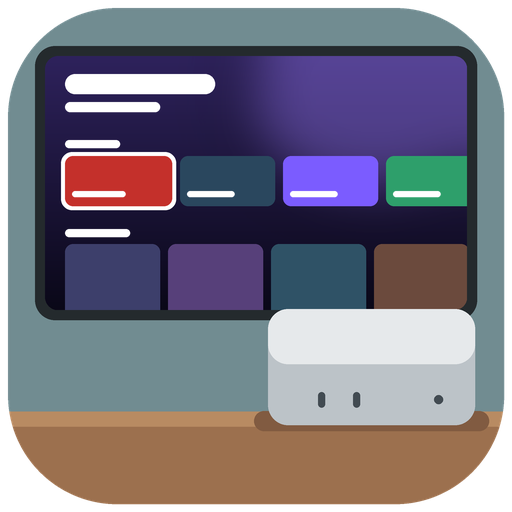
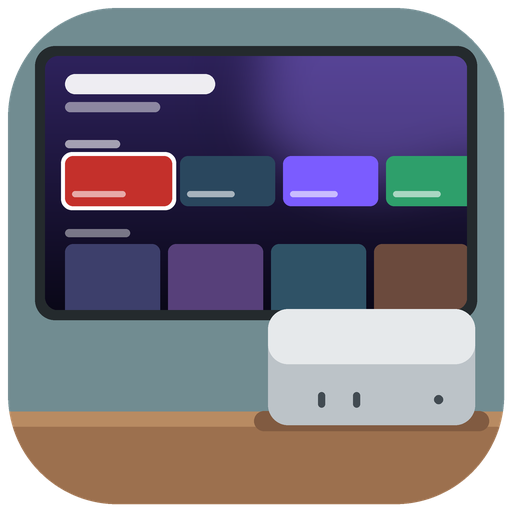
Play tile picture, BIOS folders and buttons, header (#26)
* Cube TV: the Play tile is its picture; header shows a bigger TV with the Cube TV screen

Claude-Session: https://claude.ai/code/session_016YXEbhU7vZ3b9icgYhV2QP

* Header: 16:9 TV, bottom at y 560, with the Cube TV screen

Claude-Session: https://claude.ai/code/session_016YXEbhU7vZ3b9icgYhV2QP

* BIOS folders only for consoles that use BIOS or firmware

Claude-Session: https://claude.ai/code/session_016YXEbhU7vZ3b9icgYhV2QP

* Retro Consoles: Open BIOS Folder and Copy all filenames

Claude-Session: https://claude.ai/code/session_016YXEbhU7vZ3b9icgYhV2QP

* Smoke test: Copy all filenames button

Claude-Session: https://claude.ai/code/session_016YXEbhU7vZ3b9icgYhV2QP

---------

diff --git a/setup/CouchCube/SetupController+Home.swift b/setup/CouchCube/SetupController+Home.swift
@@ -50,9 +50,14 @@ extension SetupController {
         if homeArtworkMenu != frontend || homePlayBackground.layer?.contents == nil {
             homeArtworkMenu = frontend
             let path = appStates.first { $0.id == frontend && $0.installed && !$0.path.isEmpty }?.path
-            let art = TVMenuArtwork.image(for: frontend, appIcon: path.map { NSWorkspace.shared.icon(forFile: $0) })
+            // Cube TV's own picture (TV, Mac mini, the home screen) is the whole tile: no logo, no name, no dimming.
+            let tilePicture = frontend == "cube-tv"
+                ? Bundle.main.resourceURL.flatMap { NSImage(contentsOf: $0.appendingPathComponent("AppIcons/cube-tv-tile.png")) } : nil
+            let art = tilePicture ?? TVMenuArtwork.image(for: frontend, appIcon: path.map { NSWorkspace.shared.icon(forFile: $0) })
             homePlayBackground.layer?.contentsGravity = .resizeAspectFill
             homePlayBackground.layer?.contents = art.cgImage(forProposedRect: nil, context: nil, hints: nil)
+            homePlayTitle.isHidden = tilePicture != nil
+            homePlayShade.isHidden = tilePicture != nil
         }
         homePlaySubtitle.stringValue = frontend == nil ? homeMenuLabel.stringValue : ""
         playAction.setAccessibilityLabel("Cube TV · \(homeMenuLabel.stringValue)")

diff --git a/setup/CouchCube/SetupController.swift b/setup/CouchCube/SetupController.swift
@@ -194,6 +194,9 @@ final class SetupController: NSObject, NSApplicationDelegate, NSWindowDelegate, 
     var homeSessionControllers: [String] = []
     var homeObservedConnections = Set<String>()
     let homePlayBackground = NSView()
+    /// The Play tile's name and dimming layer; Cube TV's picture is the whole tile, so it hides both.
+    var homePlayTitle: NSTextField!
+    var homePlayShade: NSView!
     let launcherSections = NSStackView()
     /// Shown after an app operation fails: macOS's App Management permission is the usual cause.
     let appManagementHint = NSStackView()
@@ -670,6 +673,8 @@ final class SetupController: NSObject, NSApplicationDelegate, NSWindowDelegate, 
         homePlaySubtitle.font = .systemFont(ofSize: 13, weight: .semibold)
         homePlaySubtitle.textColor = NSColor.white.withAlphaComponent(0.85)
         homePlaySubtitle.shadow = playTitle.shadow
+        homePlayTitle = playTitle
+        homePlayShade = shade
         for view in [homePlayBackground, shade, playTitle, homePlaySubtitle, play] {
             view.translatesAutoresizingMaskIntoConstraints = false
             playCard.contentView!.addSubview(view)

diff --git a/setup/CouchCube/SetupController+SmokeTests.swift b/setup/CouchCube/SetupController+SmokeTests.swift
@@ -1358,9 +1358,9 @@ extension SetupController {
                                  biosButtons.first?.identifier?.rawValue == "/BIOS/dc",
                                  "BIOS details must show the destination folder")
                     let copies = biosButtons.filter { $0.action == #selector(self.copyBIOSNames(_:)) }
-                    precondition(copies.map { $0.title } == ["dc_boot.bin", "dc_flash.bin", "Copy"])
+                    precondition(copies.map { $0.title } == ["dc_boot.bin", "dc_flash.bin", "Copy all filenames", "Copy"])
                     precondition(copies.map { $0.identifier!.rawValue } ==
-                                 ["dc_boot.bin", "dc_flash.bin", "Dreamcast BIOS"])
+                                 ["dc_boot.bin", "dc_flash.bin", "dc_boot.bin dc_flash.bin", "Dreamcast BIOS"])
                     precondition(!biosButtons.contains { $0.title.contains("Google") || $0.title == "Copy all" })
                     precondition(biosCopyButtons(self.biosStatusView(BIOSStatus(state: "present",
                         summary: "BIOS found", files: biosPreview.files))).isEmpty)

diff --git a/setup/CouchCube/SetupController+Apps.swift b/setup/CouchCube/SetupController+Apps.swift
@@ -729,7 +729,13 @@ extension SetupController {
             add(separator())
             let open = button("Open ROM Folder", #selector(openBIOSFolder(_:)))
             open.identifier = NSUserInterfaceItemIdentifier(detail.folder)
-            add(row([heading("Games"), NSView(), open]))
+            var openButtons: [NSView] = [open]
+            if let bios = system.bios, bios.state != "not-needed", let root = selected?.root {
+                let openBIOS = button("Open BIOS Folder", #selector(openBIOSFolder(_:)))
+                openBIOS.identifier = NSUserInterfaceItemIdentifier(root + "/BIOS/" + system.id)
+                openButtons.insert(openBIOS, at: 0)
+            }
+            add(row([heading("Games"), NSView()] + openButtons))
             if detail.games.isEmpty {
                 add(text("No games yet. Put this console's games in its ROM folder.", size: 12, secondary: true))
             }

diff --git a/setup/CouchCube/SetupController+Consoles.swift b/setup/CouchCube/SetupController+Consoles.swift
@@ -361,6 +361,11 @@ extension SetupController {
                          help: "Copy filename " + $0)
                 }))
             }
+            if names.count > 1 {
+                // One click for every file name in this folder, separated by spaces, to paste into a search.
+                fileRows.addArrangedSubview(pill("Copy all filenames", symbol: "doc.on.doc.fill", action: #selector(copyBIOSNames(_:)),
+                                                 value: names.joined(separator: " "), help: "Copy all filenames: " + names.joined(separator: " ")))
+            }
             let files = row([text("Files", size: 11, secondary: true), fileRows, NSView()])
             files.distribution = .fill
             files.alignment = .top

diff --git a/scripts/cube-tv-icon.py b/scripts/cube-tv-icon.py
@@ -28,6 +28,34 @@ def gradient(size, top, bottom):
     return image
 
 
+def screen_image(width, height):
+    """The made-up Cube TV home screen, drawn on an 844 x 508 design grid and scaled to width x height."""
+    sw, sh = 844, 508
+    screen = gradient((px(sw), px(sh)), (46, 34, 92), (10, 8, 24))
+
+    def sbox(x, y, w, h):
+        return [px(x), px(y), px(x + w), px(y + h)]
+
+    glow = Image.new("RGBA", screen.size, (0, 0, 0, 0))
+    ImageDraw.Draw(glow).ellipse(sbox(380, -120, 560, 420), fill=(160, 128, 255, 90))
+    screen = Image.alpha_composite(screen.convert("RGBA"), glow.filter(ImageFilter.GaussianBlur(px(60)))).convert("RGB")
+    sd = ImageDraw.Draw(screen, "RGBA")  # "RGBA" mode blends the translucent fills instead of replacing pixels
+    sd.rounded_rectangle(sbox(40, 36, 300, 40), radius=px(20), fill=(255, 255, 255, 235))
+    sd.rounded_rectangle(sbox(40, 92, 190, 20), radius=px(10), fill=(255, 255, 255, 120))
+    sd.rounded_rectangle(sbox(40, 168, 110, 16), radius=px(8), fill=(255, 255, 255, 150))
+    tiles = [("#c4302b", 40, 200, 214, 100, True), ("#2a475e", 270, 200, 190, 100, False),
+             ("#7b5cff", 476, 200, 190, 100, False), ("#2e9f6b", 682, 200, 190, 100, False)]
+    for color, x, y, w, h, focused in tiles:
+        if focused:
+            sd.rounded_rectangle(sbox(x - 8, y - 8, w + 16, h + 16), radius=px(22), fill=(255, 255, 255, 255))
+        sd.rounded_rectangle(sbox(x, y, w, h), radius=px(16), fill=color)
+        sd.rounded_rectangle(sbox(x + 14, y + h - 30, w * 0.5, 12), radius=px(6), fill=(255, 255, 255, 150))
+    sd.rounded_rectangle(sbox(40, 346, 130, 16), radius=px(8), fill=(255, 255, 255, 110))
+    for i, color in enumerate(["#3d3f6b", "#57407a", "#2f5266", "#6b4a3d"]):
+        sd.rounded_rectangle(sbox(40 + i * 206, 376, 190, 160), radius=px(16), fill=color)
+    return screen.resize((width, height), Image.LANCZOS)
+
+
 def draw_icon():
     canvas = Image.new("RGBA", (W, W), (0, 0, 0, 0))
     scene = Image.new("RGBA", (W, W), "#718c91")
@@ -38,32 +66,7 @@ def draw_icon():
     # TV: dark bezel, screen with the Cube TV home screen.
     d.rounded_rectangle(box(70, 92, 884, 548), radius=px(40), fill="#242a2d")
     sx, sy, sw, sh = 90, 112, 844, 508
-    screen = gradient((px(sw), px(sh)), (46, 34, 92), (10, 8, 24)).convert("RGBA")
-    sd = ImageDraw.Draw(screen)
-
-    def sbox(x, y, w, h):
-        return [px(x), px(y), px(x + w), px(y + h)]
-
-    # Hero: a glow, a big title and a smaller line.
-    glow = Image.new("RGBA", screen.size, (0, 0, 0, 0))
-    ImageDraw.Draw(glow).ellipse(sbox(380, -120, 560, 420), fill=(160, 128, 255, 90))
-    screen = Image.alpha_composite(screen, glow.filter(ImageFilter.GaussianBlur(px(60))))
-    sd = ImageDraw.Draw(screen)
-    sd.rounded_rectangle(sbox(40, 36, 300, 40), radius=px(20), fill=(255, 255, 255, 235))
-    sd.rounded_rectangle(sbox(40, 92, 190, 20), radius=px(10), fill=(255, 255, 255, 120))
-    # Shelf title, then the focused tile and its neighbours.
-    sd.rounded_rectangle(sbox(40, 168, 110, 16), radius=px(8), fill=(255, 255, 255, 150))
-    tiles = [("#c4302b", 40, 200, 214, 100, True), ("#2a475e", 270, 200, 190, 100, False),
-             ("#7b5cff", 476, 200, 190, 100, False), ("#2e9f6b", 682, 200, 190, 100, False)]
-    for color, x, y, w, h, focused in tiles:
-        if focused:
-            sd.rounded_rectangle(sbox(x - 8, y - 8, w + 16, h + 16), radius=px(22), fill=(255, 255, 255, 255))
-        sd.rounded_rectangle(sbox(x, y, w, h), radius=px(16), fill=color)
-        sd.rounded_rectangle(sbox(x + 14, y + h - 30, w * 0.5, 12), radius=px(6), fill=(255, 255, 255, 150))
-    # The next shelf, cut off by the screen edge.
-    sd.rounded_rectangle(sbox(40, 346, 130, 16), radius=px(8), fill=(255, 255, 255, 110))
-    for i, color in enumerate(["#3d3f6b", "#57407a", "#2f5266", "#6b4a3d"]):
-        sd.rounded_rectangle(sbox(40 + i * 206, 376, 190, 160), radius=px(16), fill=color)
+    screen = screen_image(px(sw), px(sh))
     mask = Image.new("L", screen.size, 0)
     ImageDraw.Draw(mask).rounded_rectangle([0, 0, screen.size[0], screen.size[1]], radius=px(26), fill=255)
     scene.paste(screen, (px(sx), px(sy)), mask)
@@ -83,8 +86,39 @@ def draw_icon():
     return canvas.resize((1024, 1024), Image.LANCZOS)
 
 
+def draw_tile(width=1600, height=900):
+    """The Play tile's picture: the whole scene, wide. The centre square stays readable when the tile is narrow."""
+    k = width / 1920
+    scene = Image.new("RGBA", (width, height), "#718c91")
+    d = ImageDraw.Draw(scene)
+
+    def r(x, y, w, h):
+        return [round(x * k), round(y * k), round((x + w) * k), round((y + h) * k)]
+
+    d.rectangle(r(0, 910, 1920, 200), fill="#9c704e")
+    d.rectangle(r(0, 910, 1920, 28), fill="#b88b62")
+    d.rounded_rectangle(r(300, 70, 1180, 665), radius=round(44 * k), fill="#242a2d")
+    sw, sh = 1152, 633
+    screen = screen_image(round(sw * k), round(sh * k))
+    mask = Image.new("L", screen.size, 0)
+    ImageDraw.Draw(mask).rounded_rectangle([0, 0, screen.size[0], screen.size[1]], radius=round(28 * k), fill=255)
+    scene.paste(screen, (round(314 * k), round(84 * k)), mask)
+    d = ImageDraw.Draw(scene)
+    d.rounded_rectangle(r(1290, 904, 560, 44), radius=round(22 * k), fill="#815b41")
+    d.rounded_rectangle(r(1350, 886, 440, 40), radius=round(20 * k), fill="#303638")
+    d.rounded_rectangle(r(1330, 640, 500, 280), radius=round(48 * k), fill="#bcc3c8")
+    d.rounded_rectangle(r(1330, 640, 500, 132), radius=round(48 * k), fill="#e6e9eb")
+    for x in (1450, 1535):
+        d.rounded_rectangle(r(x, 840, 16, 38), radius=round(8 * k), fill="#424b52")
+    d.ellipse(r(1735, 848, 22, 22), fill="#424b52")
+    return scene.convert("RGB")
+
+
 if __name__ == "__main__":
     out = Path(sys.argv[1]) if len(sys.argv) > 1 else Path(__file__).resolve().parents[1] / "assets/app-icons/cube-tv.png"
     icon = draw_icon()
     icon.resize((512, 512), Image.LANCZOS).save(out)
     print("Wrote", out)
+    tile = out.with_name("cube-tv-tile.png")
+    draw_tile().save(tile)
+    print("Wrote", tile)

diff --git a/scripts/console.py b/scripts/console.py
@@ -1167,7 +1167,16 @@ def _remove_empty_tree(folder):
         os.rmdir(directory)
 
 
-def sync_console_folders(storage, base, enabled):
+MANUAL_BIOS_SYSTEMS = {"ps2", "ps3", "switch", "xbox"}
+
+
+def bios_systems():
+    """Consoles that can use BIOS or firmware files: the ones in the BIOS list plus the manual ones (PS2, PS3, Switch, Xbox)."""
+    with BIOS_MAP.open(newline="") as file:
+        return {entry["system"] for entry in csv.DictReader(file)} & set(SYSTEMS) | MANUAL_BIOS_SYSTEMS
+
+
+def sync_console_folders(storage, base, enabled, only=None):
     """One folder per shown console under ROMs/ or BIOS/. A console you hide keeps its files: the folder gets a leading
     dot (hidden in Finder, and ES-DE skips it) and returns when the console is shown again. A hidden console's folder
     with no files in it is removed. Needs no marker files."""
@@ -1175,6 +1184,12 @@ def sync_console_folders(storage, base, enabled):
     for system in SYSTEMS:
         visible = storage.read_path(f"{base}/{system}")
         hidden = storage.read_path(f"{base}/.{system}")
+        if only is not None and system not in only:
+            # A console that has no use for this folder never gets one; an empty one made earlier goes away.
+            for folder, name in ((visible, system), (hidden, "." + system)):
+                if folder.is_dir() and not folder.is_symlink() and not _real_files(folder):
+                    _remove_empty_tree(storage.target(f"{base}/{name}"))
+            continue
         for folder in (visible, hidden):
             marker = folder / "noload.txt"
             if folder.is_dir() and marker.is_file() and not marker.is_symlink() and marker.read_bytes() == LEGACY_NOLOAD:
@@ -1218,7 +1233,7 @@ def select_systems(storage, systems):
     state = read_json(storage.target(MARKER))
     state["systems"] = systems
     sync_console_folders(storage, "ROMs", systems)
-    sync_console_folders(storage, "BIOS", systems)
+    sync_console_folders(storage, "BIOS", systems, only=bios_systems())
     refresh_generated(storage, state)
     print("Console selection saved. Existing ROMs and saves were kept.", flush=True)
 
@@ -1366,7 +1381,7 @@ def initialize(storage, systems=None):
     for folder in folders:
         storage.mkdir(folder)
     sync_console_folders(storage, "ROMs", selected_systems(state))
-    sync_console_folders(storage, "BIOS", selected_systems(state))
+    sync_console_folders(storage, "BIOS", selected_systems(state), only=bios_systems())
     refresh_generated(storage, state)
     if template:
         storage.target(SSD_TEMPLATE).unlink()

diff --git a/tests/test_bios_folders.py b/tests/test_bios_folders.py
@@ -30,10 +30,17 @@ class BiosFolderTests(unittest.TestCase):
         (self.root / "BIOS/retroarch").mkdir(parents=True)
         self.storage = FakeStorage(self.root)
 
-    def test_every_shown_console_gets_a_bios_folder(self):
-        console.sync_console_folders(self.storage, "BIOS", ["psx", "snes"])
-        self.assertTrue((self.root / "BIOS/psx").is_dir() and (self.root / "BIOS/snes").is_dir())
+    def test_only_consoles_that_use_bios_get_a_folder(self):
+        (self.root / "BIOS/snes").mkdir()
+        (self.root / "BIOS/nes").mkdir()
+        (self.root / "BIOS/nes/notes.txt").write_text("mine")
+        console.sync_console_folders(self.storage, "BIOS", ["psx", "snes", "nes"], only=console.bios_systems())
+        self.assertTrue((self.root / "BIOS/psx").is_dir())
+        self.assertFalse((self.root / "BIOS/snes").exists(), "an empty folder of a console without BIOS goes away")
+        self.assertTrue((self.root / "BIOS/nes/notes.txt").is_file(), "files are never touched")
         self.assertFalse((self.root / "BIOS/ps2").exists())
+        self.assertEqual(console.bios_systems() & {"snes", "nes", "gba"}, set())
+        self.assertTrue({"psx", "saturn", "dreamcast", "ps2", "switch"} <= console.bios_systems())
 
     def test_hidden_console_with_bios_files_keeps_them_in_a_dot_folder(self):
         (self.root / "BIOS/ps2").mkdir()

diff --git a/tests/test_home_artwork.py b/tests/test_home_artwork.py
@@ -16,7 +16,7 @@ class HomeArtworkTests(unittest.TestCase):
         self.assertEqual(width * 9, height * 16)
         left, top, view_width, view_height = map(float, header.get("viewBox").split())
         self.assertEqual(float(tv.get("x")) + width / 2, left + view_width / 2)
-        self.assertEqual(float(tv.get("y")) + height, 380)
+        self.assertEqual(float(tv.get("y")) + height, 560)
         self.assertEqual(top, -50)
         self.assertEqual(view_height, 1000)
         self.assertGreater((float(tv.get("y")) + height - top) / view_height, 0.4)

diff --git a/DESIGN.md b/DESIGN.md
@@ -261,7 +261,7 @@ SteamGridDB's wide grid on their tile (before the libretro cover), plus a hero, 
 SteamGridDB's CDN, misses remembered for a week. Drive pages count games
 the same way, not files. Tiles fill the width in a flow grid; click, Return or
 VoiceOver opens them, and their menu offers Open, Show in Finder and, for added apps, Remove from Play. The search field filters by name.
-The Cube TV tile's artwork is drawn in code (`TVMenuArtwork.swift`) so it stays sharp at any size: the
+The Cube TV tile's artwork (other menus) is drawn in code (`TVMenuArtwork.swift`) so it stays sharp at any size: the
 chosen menu's colors (Steam blue, ES-DE red, Cube TV purple when none is chosen), a soft glow and
 scanlines, the installed app's own icon (bundled icon as fallback) and its name ("STEAM / Big Picture",
 "ES-DE / Retro Games"), all centered in a square safe area so nothing is cut off however narrow the
@@ -636,7 +636,7 @@ App Settings...).
 
 ### BIOS folders per console
 
-Every shown console has its own `BIOS/<console>` folder (psx, ps2, switch...). Files put there reach RetroArch's
+Only a shown console that can use BIOS or firmware files has its own `BIOS/<console>` folder (psx, saturn, dreamcast, nds, pcengine, segacd, ps2, ps3, switch, xbox); consoles like NES or SNES get none, and an empty one made earlier is removed. Files put there reach RetroArch's
 system folder when a game starts (never overwriting). Hiding a console that has BIOS files renames its folder to
 `BIOS/.<console>` (hidden in Finder) and showing it again renames it back; a hidden console whose BIOS folder has no
 files has the folder removed (only empty folders, never files). `BIOS/retroarch` stays the shared RetroArch folder.
@@ -656,3 +656,15 @@ preload apps hidden (Steam and Battle.net by default when installed; installed l
 one-click "+" suggestions), and runs the optional Focus Shortcut ("Set Focus" action, e.g. Gaming). **End Game Night**
 closes the preload apps and runs the Focus-off Shortcut. The same two actions are in the Cube TV menu.
 Every running app has its Quit button at the end of its row.
+
+### Cube TV picture and home header
+
+When Cube TV is the TV menu, the **Play tile is just its picture** (`assets/app-icons/cube-tv-tile.png`: a wall-mounted TV
+showing a made-up Cube TV home screen, the Mac mini bottom right on the oak cabinet), with no logo, name or dimming.
+`scripts/cube-tv-icon.py` draws it and the square app-style icon (`cube-tv.png`). `assets/header.svg` (the non-SSD
+header, exported to `header.png`) now shows the TV larger, with the same home screen on it.
+
+### Retro Consoles: BIOS shortcuts
+
+A console that uses BIOS files has **Open BIOS Folder** next to **Open ROM Folder** on its page. Under the missing files, the
+per-file copy pills stay, and **Copy all filenames** copies every missing name of that folder in one string, separated by spaces.

diff --git a/README.md b/README.md
@@ -64,7 +64,7 @@ Couch Cube includes no games, BIOS, firmware or keys. How each page works in det
 | Nintendo Switch | Manually supplied compatible Ryujinx-based macOS build (`Ryujinx.app`) | No verified automatic download bundled; configure your own legally obtained keys, firmware and game dumps |
 
 These are launch integrations, not game compatibility guarantees. Disabling a
-console preserves its ROMs and saves. A hidden console's ROM and BIOS folders get a leading dot
+console preserves its ROMs and saves. A hidden console's ROM and BIOS folders (BIOS folders exist only for consoles that use BIOS files) get a leading dot
 (for example `ROMs/.nes`), which hides them in Finder and ES-DE; showing the console again renames them back.
 A hidden console with no ROMs or BIOS files has its empty folders removed. Quit ES-DE before changing console selection or
 updating frontend settings. Installed app icons are read from the apps on
